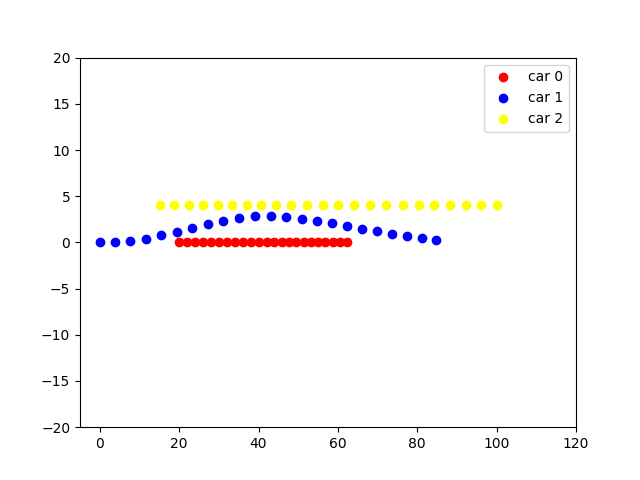
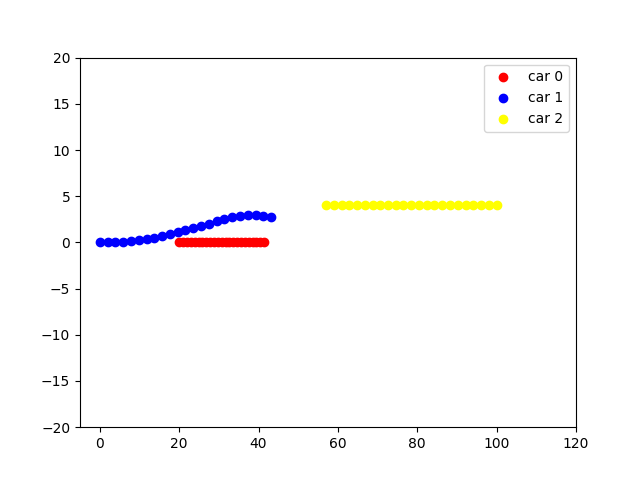
The previous problem was solved when I increase the resolution of the original path from 4 meters to 2 meters. Now the third car (The car drives toward the overtaking car) will deaccelerate first and then accelerate.

Changed region(s): [[0.1562, 0.4062, 0.7812, 0.5312]]

diff --git a/CFS_problem.py b/CFS_problem.py
@@ -16,18 +16,18 @@ def define_path(dt):
     multi_path = []
     # Define path 0
     path_seg_0 = np.array([[20, 0], [70, 0]])
-    resolution_0 = 2                                     # Resolution indicates nominal speed is resolution/dt (m/s)
+    resolution_0 = 1                                     # Resolution indicates nominal speed is resolution/dt (m/s)
     path_0 = get_path(path_seg_0, resolution_0)          
     multi_path.append(path_0)
     # Define path 1
     path_seg_1 = np.array([[0, 0.01], [100, 0.01]])
-    resolution_1 = 4
+    resolution_1 = 2
     path_1 = get_path(path_seg_1, resolution_1)          # Resolution indicates nominal speed is resolution/dt (m/s)
     multi_path.append(path_1)
 
     # Define path 2
     path_seg_2 = np.array([[100, 4], [0, 4]])
-    resolution_2 = 4
+    resolution_2 = 2
     path_2 = get_path(path_seg_2, resolution_2)
     multi_path.append(path_2)
 

diff --git a/CFS_planner.py b/CFS_planner.py
@@ -265,15 +265,15 @@ def main():
     
 
     # Get original car 3's trajectory
-    ori_path3 = multi_path[-1]
-    distance = two_car_distance(pathnew1, ori_path3)
-    print(distance, np.argmin(distance))
+    # ori_path3 = multi_path[-1]
+    # distance = two_car_distance(pathnew1, ori_path3)
+    # print(distance, np.argmin(distance))
     # print(ori_path3)
 
-    # path_rendering(pathnew, num_cars)
-    # vel = get_velocity(pathnew2, dt)
-    # print(sum(vel)/len(vel))
-    # print(vel)
+    path_rendering(pathnew, num_cars)
+    vel = get_velocity(pathnew2, dt)
+    print("Average speed is: {}".format(sum(vel)/len(vel)))
+    print(vel)
     
 
 if __name__ == "__main__":
